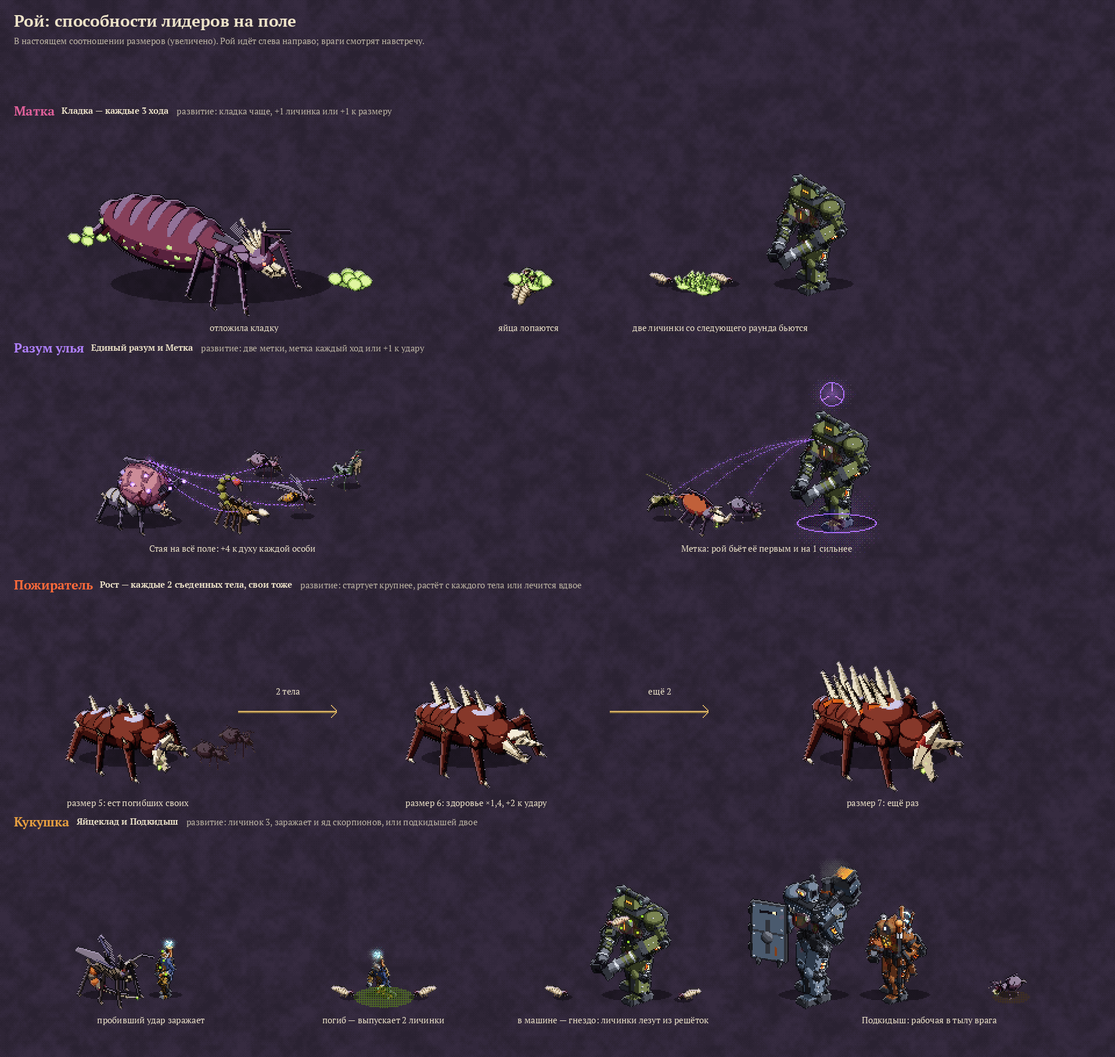
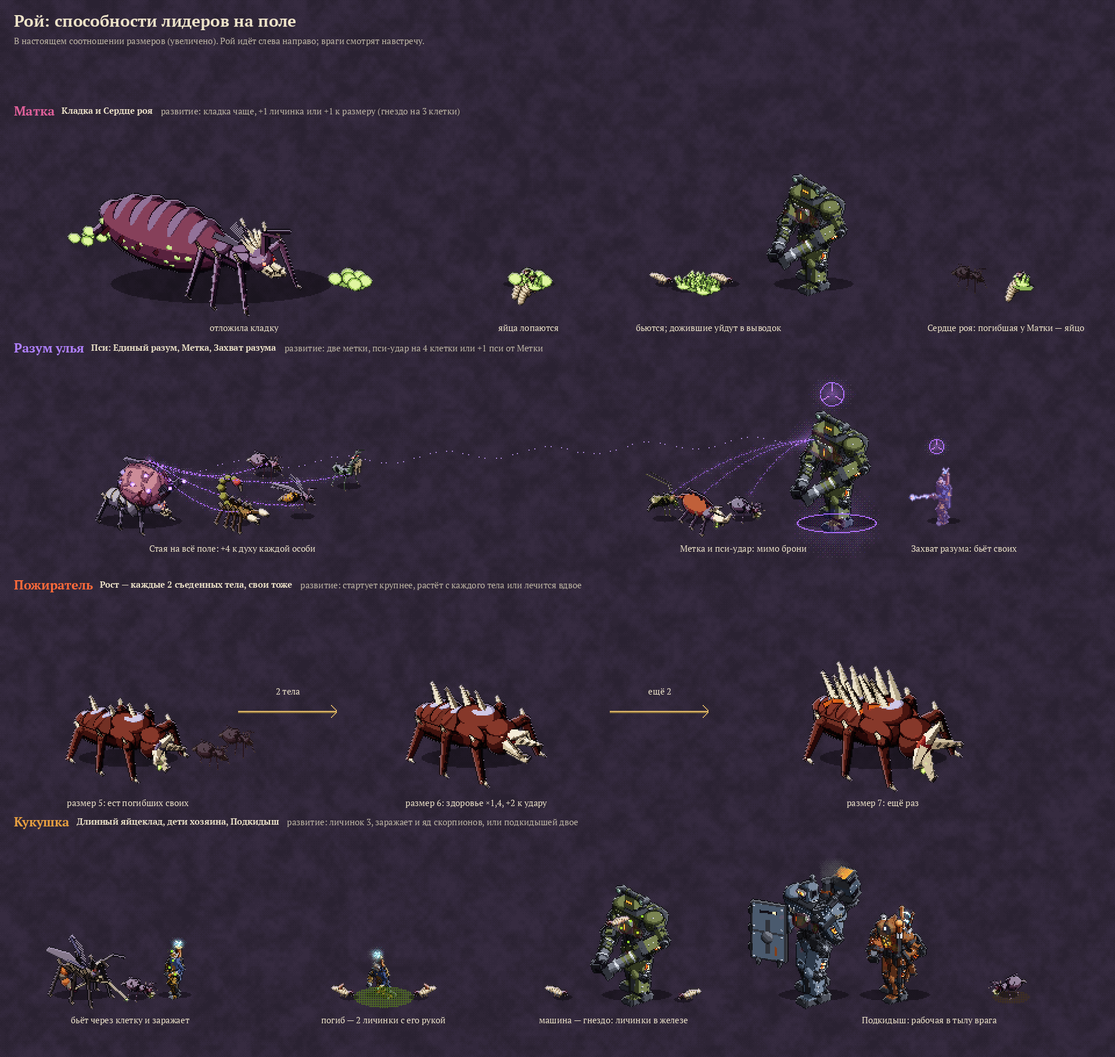
Лидеры роя: пси Разума улья, гнездо Матки, Кукушка, бой меняет породу
Новый тип урона пси — мимо брони, безмозглым вдвое меньше. Разум улья
бьёт мыслью на 3 клетки, Метка добавляет пси, Захват разума на 2 хода
переманивает раненого врага (голема — на 1). Матка: Сердце роя — погибшая
рядом своя роняет яйцо; выжившие личинки уходят в выводок с чертой, что
больше убивала. Кукушка: длинный яйцеклад бьёт через клетку, личинки
берут черту хозяина и уходят в выводок химерами. Общее правило: каждый
лидер превращает бой в материал для породы.

Claude-Session: https://claude.ai/code/session_01Bh6a99SKMjjKSinDnrtssC

diff --git a/tools/sprites/swarm_leaders.py b/tools/sprites/swarm_leaders.py
@@ -202,6 +202,10 @@ def razum(pose="idle", hue=0.0):
     legs(m, mc, hips=[(-5.0, 3.0, 1.8), (-1.6, 3.2, 2.0), (2.2, 3.6, 1.8)],
          knees=[(-7.4, 5.6, 4.8), (-1.6, 5.8, 5.4), (3.8, 5.6, 4.8)],
          feet=[(-9.2, 0.0, 6.4), (-1.4, 0.0, 7.0), (5.6, 0.0, 6.2)], thick=(0.5, 0.38))
+    if pose == "attack":                                        # the psionic blow: rings going out from the brain
+        for j, (x, r) in enumerate(((10.5, 2.6), (14.0, 3.6), (17.6, 4.6))):
+            for t in np.linspace(0, 2 * np.pi, 14 + 4 * j)[:-1]:
+                m.ell((x, 9.0 + np.sin(t) * r, np.cos(t) * r), (0.35, 0.35, 0.35), M_PHERO if j < 2 else M_PHERO_DIM)
     return m
 
 
@@ -294,7 +298,7 @@ def kukushka(pose="idle", hue=0.0):
     if not curl:
         ov = [bulb + (-0.6, -0.2, 0), bulb + (-6.0, -1.2, 0), bulb + (-11.0, -0.4, 0), bulb + (-14.6, 1.6, 0)]
     else:
-        ov = [bulb + (0.6, -0.3, 0), bulb + (5.0, -0.6, 0), bulb + (10.0, -0.2, 0), bulb + (14.4, 0.6, 0)]
+        ov = [bulb + (0.6, -0.3, 0), bulb + (7.0, 4.6, 0), bulb + (15.0, 6.2, 0), bulb + (22.0, 2.0, 0)]   # over the heads of its own
     m.limb(ov, 1, M_FANG, band=3)
     for z in (0.5, -0.5):
         m.limb([p + np.array((0, 0.4, z)) for p in ov[:3]], 1, mc, band=2 if z > 0 else 1)
@@ -332,9 +336,30 @@ def kukushka(pose="idle", hue=0.0):
 
 
 # ---------------------------------------------------------------- личинка
-def larva(pose="idle", hue=0.0):
-    """A pale grub curled a little, a dark head capsule with jaws, stubby legs."""
+STEEL_L = Mat(ramp("#1e2228", "#3a404a", "#606874", "#949ca8", "#d0d6de"))
+SKIN_L = Mat(ramp("#2a140c", "#5a3020", "#9a5a3c", "#d09070", "#f2c8a8"))
+
+
+def larva(pose="idle", hue=0.0, host=None):
+    """A pale grub curled a little, a dark head capsule with jaws, stubby legs. host: the trait it took from the body
+    it hatched from — "iron" (a golem: steel bands), "hand" (a man: a little hand), "bones" (the undead: bone spurs)."""
     m = Model()
+    if host == "iron":
+        for i in (1, 3, 5):
+            x = -1.4 - i * 1.7
+            y = 2.4 + 0.5 * np.sin(i * 0.5)
+            r = 2.1 - abs(i - 2) * 0.2
+            m.ell((x, y, 0), (0.55, r * 1.06, r * 1.02), STEEL_L)
+    elif host == "hand":
+        s0 = np.array((-5.0, 4.2, 1.2))
+        m.cyl(s0, s0 + (0.6, 2.6, 1.2), 0.55, SKIN_L, r1=0.45, seg=5)
+        h = s0 + (0.9, 3.0, 1.3)
+        m.ell(h, (0.7, 0.5, 0.6), SKIN_L)
+        for k in range(3):
+            m.cyl(h + (0.3, 0.2, -0.4 + 0.4 * k), h + (1.1, 0.7, -0.5 + 0.5 * k), 0.18, SKIN_L, seg=4)
+    elif host == "bones":
+        for x in (-3.0, -6.4, -9.8):
+            spike(m, (x, 3.6, 0), (x - 1.0, 6.0, 0), 0.4, M_BONE)
     for i in range(7):
         x = -1.4 - i * 1.7
         y = 2.4 + 0.5 * np.sin(i * 0.5) + (0.0 if pose == "idle" else 0.4 * i * 0.2)
@@ -373,10 +398,10 @@ def trim(spr, pad=2):
 DEV = {
     "Матка": [("often", "Кладка чаще", "откладывает каждые 2 хода — яйца светятся сквозь брюшко, кладка больше"),
               ("larva", "+1 личинка", "личинки вылупляются по три и цепляются за неё"),
-              ("size", "+1 к размеру", "размер 7 — предел роя больше; корона выше")],
+              ("size", "+1 к размеру", "размер 7 — гнездо на 3 клетки; корона выше")],
     "Разум улья": [("two", "Две метки", "вторая пара перистых усов: метит двоих"),
-                   ("every", "Метка каждый ход", "мозг весь светится узлами"),
-                   ("strike", "+1 к удару", "Единый разум бьёт сильнее: шипы по борозде, жвалы крупнее")],
+                   ("every", "Пси-удар на 4 клетки", "мозг весь светится узлами"),
+                   ("strike", "+1 пси от Метки", "шипы по борозде, жвалы крупнее")],
     "Пожиратель": [("bigger", "Стартует крупнее", "бой начинает размером 6"),
                    ("every_kill", "Растёт с каждого тела", "раздутое брюхо светится ихором"),
                    ("heal", "Лечится вдвое", "второй желудок-мешок на спине")],
@@ -470,13 +495,18 @@ def add_dev(m, name, dev, pose, hue=0.0):
             m.extend(ant.transformed(rot_z(0.5), (0.0, 0.0, 0)).scaled(0.85).transformed(I3, (4.6, 2.2, 1.0)))
 
 
-def build(name, pose="idle", k=1.0, stage=0, hue=0.0, dev=None):
+def build(name, pose="idle", k=1.0, stage=0, hue=0.0, dev=None, host=None):
     """k multiplies the in-game scale, as in swarm1.build. dev: the development taken (see DEV)."""
     if name == "Пожиратель" and dev == "bigger":
         stage = max(stage, 1)
     size = SIZE[name] + (stage if name == "Пожиратель" else 0) + (1 if (name == "Матка" and dev == "size") else 0)
     s = SCALE[size] * k
-    m = pozhiratel(pose, stage, hue) if name == "Пожиратель" else BUILD[name](pose, hue)
+    if name == "Пожиратель":
+        m = pozhiratel(pose, stage, hue)
+    elif name == "личинка":
+        m = larva(pose, hue, host)
+    else:
+        m = BUILD[name](pose, hue)
     add_dev(m, name, dev, pose, hue)
     w, h, ox, oy = int(110 * s), int(70 * s), int(70 * s), int(56 * s)
     spr = W.rim_light(render(m.scaled(s), w, h, ox, oy, **W.STYLE1))
@@ -486,22 +516,26 @@ def build(name, pose="idle", k=1.0, stage=0, hue=0.0, dev=None):
 
 LEADERS = [
     ("Матка", "размер 6 · число и порода", 1.4,
-     [("Кладка", "каждые 3 хода: рядом вылупляются 2 личинки, со следующего раунда бьются"),
-      ("Сердце роя", "постоянно: её размер задаёт предел роя"),
+     [("Кладка", "каждые 3 хода: 2 личинки; дожившие уйдут в выводок с чертой, что больше убивала"),
+      ("Сердце роя", "постоянно: погибшая рядом своя роняет яйцо — через 2 хода личинка"),
       ("Плодовитость", "поход: в выводке на потомка больше, кормление вдвое дешевле"),
       ("Медлительная", "слабость: скорость 1, держится в тылу", 1)]),
-    ("Разум улья", "размер 4 · рой бьёт как один", 1.9,
-     [("Метка", "каждые 2 хода: самый опасный враг — рой бьёт его первым и на 1 сильнее"),
-      ("Единый разум", "постоянно: Стая на всё поле — у каждой особи +4 к боевому духу"),
-      ("Общая память", "поход: эволюция формы дешевле на 1 биомассу"),
+    ("Разум улья", "размер 4 · рой, который думает: урон пси", 1.9,
+     [("Пси-удар", "атака: мыслью на 3 клетки, мимо брони"),
+      ("Метка", "каждые 2 хода: самый опасный враг — рой бьёт его первым, +1 пси"),
+      ("Единый разум", "постоянно: у каждой особи +4 к боевому духу, где бы ни стояла"),
+      ("Захват разума", "раз за бой: раненый враг 2 хода бьётся за рой, голем — 1"),
+      ("Общая память", "поход: эволюция дешевле; удары по Метке вдвое в отборе"),
       ("Хрупкий мозг", "слабость: мало здоровья, мягкое тело; гибель обезглавливает рой", 1)]),
     ("Пожиратель", "размер 5–7 · зверь растёт в бою", 1.3,
      [("Рост", "каждые 2 съеденных тела, свои тоже: здоровье ×1,4 и +2 к удару — до размера 7"),
       ("Каннибал", "постоянно: ест погибших своих рядом, как чужих"),
-      ("Всё в пасть", "поход: биомасса идёт в его рост между боями; рой меньше"),
+      ("Всё в пасть", "поход: съеденное в бою — биомасса, она идёт в его рост; рой меньше"),
       ("Ненасытный", "слабость: три раунда без еды — съедает живую свою особь рядом", 1)]),
     ("Кукушка", "размер 3 · рой растёт за счёт врага", 2.2,
-     [("Яйцеклад", "атака: заражает; живой, погибнув, выпускает 2 личинки, машина — гнездо"),
+     [("Длинный яйцеклад", "постоянно: бьёт через клетку, из-за спин своих"),
+      ("Яйцеклад", "атака: заражает; живой, погибнув, выпускает 2 личинки, машина — гнездо"),
+      ("Дети хозяина", "постоянно: личинки берут черту хозяина и уходят в выводок химерами"),
       ("Подкидыш", "в начале боя: одна рабочая оказывается в тылу врага"),
       ("Чужие черты", "поход: чужие черты чаще и безумнее, у особи их может быть две"),
       ("Хрупкая кладка", "слабость: огонь выжигает кладку — заражённый очищается", 1)]),

diff --git a/tools/sprites/swarm_abilities.py b/tools/sprites/swarm_abilities.py
@@ -59,6 +59,20 @@ def clutch(stage=0):
     return m
 
 
+def egg_hatching():
+    """One egg, cracked, a larva's head out."""
+    m = Model()
+    c = np.array((0.0, 1.9, 0.0))
+    m.ell(c - (0, 0.8, 0), (2.3, 1.0, 1.9), W.M_EGG)
+    for a in np.linspace(0, 2 * np.pi, 8)[:-1]:
+        p = c + np.array((np.cos(a) * 2.0, 0.1, np.sin(a) * 1.6))
+        W.spike(m, p, p + np.array((np.cos(a) * 0.5, 1.2, np.sin(a) * 0.3)), 0.45, W.M_EGG)
+    lv = SL.larva("attack").transformed(rot_z(1.1), (0, 0, 0)).scaled(0.8).transformed(I3, c + (0.6, -0.4, 0))
+    m.extend(lv)
+    m.ell((0.4, 0.1, 0.4), (3.6, 0.15, 2.6), SL.M_EGG_IN)
+    return m
+
+
 def thread(sc, a, b, col=PHERO, sag=10.0, k=0.9):
     """A pheromone thread: a sagging dotted line with a faint glow along it."""
     a, b = np.array(a, float), np.array(b, float)
@@ -133,7 +147,7 @@ def sheet():
     # ---- Матка: laying
     y0 = Y0
     by = y0 + RH - 44
-    heads.append((y0, "Матка", "Кладка — каждые 3 хода", "развитие: кладка чаще, +1 личинка или +1 к размеру", 0))
+    heads.append((y0, "Матка", "Кладка и Сердце роя", "развитие: кладка чаще, +1 личинка или +1 к размеру (гнездо на 3 клетки)", 0))
     put(sc, SL.build("Матка", "idle", k), 190, by, 95)
     eg = render_small(clutch(0), k * 1.9)
     sc.blit(eg, 300 - eg.ox, by - eg.oy)
@@ -146,12 +160,16 @@ def sheet():
         put(sc, SL.build("личинка", "attack", k), 600 + dx, by, 10)
     gol = flip(F.build("Орудие", "idle", k=1.6 * k))
     put(sc, gol, 700, by, 34)
-    caps.append((620, by + 10, "две личинки со следующего раунда бьются"))
+    caps.append((610, by + 10, "бьются; дожившие уйдут в выводок"))
+    import swarm_effects as E                          # the heart of the swarm: one of hers falls near her, an egg
+    put(sc, E.lit(W.build((), 0.0, "idle", False, k=k, genes=W.genes_for(44)), (30, 20, 20), 0.65), 836, by + 2, 0)
+    put(sc, render_small(egg_hatching(), k * 1.9), 880, by + 2, 10)
+    caps.append((866, by + 10, "Сердце роя: погибшая у Матки — яйцо"))
 
     # ---- Разум улья: one mind and the mark
     y0 += RH
     by = y0 + RH - 44
-    heads.append((y0, "Разум улья", "Единый разум и Метка", "развитие: две метки, метка каждый ход или +1 к удару", 1))
+    heads.append((y0, "Разум улья", "Пси: Единый разум, Метка, Захват разума", "развитие: две метки, пси-удар на 4 клетки или +1 пси от Метки", 1))
     rz = SL.build("Разум улья", "idle", k)
     put(sc, rz, 120, by, 36)
     bugs = [((), False, 230, by - 40), (("wings",), False, 260, by - 4), (("stinger",), True, 205, by + 2),
@@ -170,7 +188,17 @@ def sheet():
         put(sc, W.build(traits, -0.05, "attack", soldier=sold, k=k), x, by + (0 if sold else -2), 10)
     for x in (600, 640, 572):
         thread(sc, (x + 6, by - 24), (700, by - 70), sag=10, k=0.6)
-    caps.append((660, by + 10, "Метка: рой бьёт её первым и на 1 сильнее"))
+    for t in np.linspace(0, 1, 120):                    # the psionic blow: a wave from the brain to the mark, through armour
+        x = 140 + (700 - 140) * t
+        y = by - 44 + (by - 70 - (by - 44)) * t + np.sin(t * 40) * 4
+        if int(t * 120) % 3:
+            sc.rgb[int(y), int(x)] = sc.rgb[int(y), int(x)] * 0.2 + hexc("#c8a0ff") * 0.8
+    sc.glow(700, by - 70, 24, hexc("#b070ff"), 0.6)
+    caps.append((640, by + 10, "Метка и пси-удар: мимо брони"))
+    cap_ = flip(E.lit(GH.build(LH.INVENTOR, "attack", 0.9 * k), (176, 112, 255), 0.35))   # a captured mind turns on its own
+    put(sc, cap_, 812, by, 14)
+    sigil(sc, 806, by - 64, 6)
+    caps.append((830, by + 10, "Захват разума: бьёт своих"))
 
     # ---- Пожиратель: growing
     y0 += RH
@@ -193,26 +221,28 @@ def sheet():
     # ---- Кукушка: the egg-layer and the changeling
     y0 += RH
     by = y0 + RH - 44
-    heads.append((y0, "Кукушка", "Яйцеклад и Подкидыш", "развитие: личинок 3, заражает и яд скорпионов, или подкидышей двое", 3))
+    heads.append((y0, "Кукушка", "Длинный яйцеклад, дети хозяина, Подкидыш", "развитие: личинок 3, заражает и яд скорпионов, или подкидышей двое", 3))
     ku = SL.build("Кукушка", "attack", k)
-    put(sc, ku, 95, by, 24)
+    put(sc, ku, 70, by, 24)
+    put(sc, W.build((), 0.02, "attack", False, k=k, genes=W.genes_for(12)), 118, by + 2, 8)      # its own, in front of it
     inv = flip(GH.build(LH.INVENTOR, "idle", 0.9 * k))
-    put(sc, inv, 142, by, 14)
-    spots(sc, 140, by - 30, [(0, 0), (-3, 6), (2, 12), (-1, -8)])
-    caps.append((130, by + 10, "пробивший удар заражает"))
+    put(sc, inv, 150, by, 14)
+    spots(sc, 148, by - 30, [(0, 0), (-3, 6), (2, 12), (-1, -8)])
+    caps.append((112, by + 10, "бьёт через клетку и заражает"))
     dead = flip(GH.build(LH.INVENTOR, "broken", 0.9 * k))
     put(sc, dead, 330, by, 16)
     splat(sc, 330, by + 2, 26)
     for dx in (-30, 30):
-        put(sc, flip(SL.build("личинка", "attack", k)) if dx > 0 else SL.build("личинка", "attack", k), 330 + dx, by + 2, 8)
-    caps.append((330, by + 10, "погиб — выпускает 2 личинки"))
+        put(sc, flip(SL.build("личинка", "attack", k, host="hand")) if dx > 0 else SL.build("личинка", "attack", k, host="hand"),
+            330 + dx, by + 2, 8)
+    caps.append((330, by + 10, "погиб — 2 личинки с его рукой"))
     gx = 548                                           # a machine is a nest: eggs ripen in the warmth of its furnace
     put(sc, flip(F.build("Орудие", "idle", k=1.6 * k)), gx, by, 30)
     spots(sc, gx - 6, by - 64, [(0, 0), (-8, 6), (6, 10), (-2, 18), (10, -4)])
-    put(sc, flip(SL.build("личинка", "attack", k)), gx - 22, by - 58, 0)
-    put(sc, SL.build("личинка", "attack", k), gx - 64, by + 2, 8)
-    put(sc, flip(SL.build("личинка", "idle", k)), gx + 40, by + 4, 8)
-    caps.append((gx - 20, by + 10, "в машине — гнездо: личинки лезут из решёток"))
+    put(sc, flip(SL.build("личинка", "attack", k, host="iron")), gx - 22, by - 58, 0)
+    put(sc, SL.build("личинка", "attack", k, host="iron"), gx - 64, by + 2, 8)
+    put(sc, flip(SL.build("личинка", "idle", k, host="iron")), gx + 40, by + 4, 8)
+    caps.append((gx - 20, by + 10, "машина — гнездо: личинки в железе"))
     for g, x in (("Страж", 700), ("Мудрец", 770)):
         put(sc, flip(F.build(g, "idle", k=F.FRAMES[g][0] * k * 0.8)), x, by, 30)
     splat(sc, 870, by + 2, 16, col=hexc("#6a5038"), k=0.8)

diff --git a/docs/CONCEPT.md b/docs/CONCEPT.md
@@ -90,9 +90,12 @@
 - **Сокрушительный удар**: если один удар снёс больше половины полного здоровья цели, цель
   отлетает на клетку (если она не крупнее бьющего), а её соседи проверяют страх 1–7.
   Тяжёлые бойцы делают это часто, мелочь почти никогда.
+- **Пси** — удар по разуму: броня от него не спасает. Безмозглые (боевой дух 99 — големы, нежить)
+  получают от пси вдвое меньше: страха у них нет, но то, что ими движет, — искра в ядре голема,
+  чары нежити — пси сбивает. Пси бьёт только Разум улья и его рой.
 - **Огонь и горение не замечают броню.** Кислота разъедает броню до конца боя: каждое попадание
   снимает 1 брони.
-- **Типы урона**: колющий, рубящий, дробящий, огонь, холод, молния, яд, кислота. У каждого оружия
+- **Типы урона**: колющий, рубящий, дробящий, огонь, холод, молния, яд, кислота, пси. У каждого оружия
   и каждой способности, которая ранит, свой тип. Сопротивление режет урон вдвое, уязвимость
   удваивает. Стихийные сопротивления — в процентах (огнеупорность — 75%).
 - **Типы брони**: у каждого юнита и каждой постройки свой тип брони — из чего сделана защита.
@@ -755,7 +758,7 @@
 | Огонь | слабо | горящая мелочь бежит (общее правило) |
 
 Способности только биологические: укус, жало, яд, кислота, панцирь, прыжок, полёт, феромоны,
-размножение, пожирание. Никаких механизмов и магии.
+размножение, пожирание — и пси Разума улья, воля роя, а не магия. Никаких механизмов и заклинаний.
 
 #### Пассивки и слабость класса
 
@@ -983,7 +986,7 @@
 | Лидер | Где сила |
 |---|---|
 | Матка | в числе и породе |
-| Разум улья | в согласованности: рой бьёт как один |
+| Разум улья | в разуме: пси мимо брони, одна воля на весь рой |
 | Пожиратель | в одном звере, который растёт по ходу боя |
 | Кукушка | в чужих телах: рой растёт за счёт врага |
 
@@ -993,25 +996,34 @@
 
 | Способность | Когда | Что делает |
 |---|---|---|
-| Кладка | каждые 3 хода | рядом вылупляются 2 личинки (призыв), со следующего раунда бьются |
-| Сердце роя | постоянно | её размер задаёт предел роя |
+| Кладка | каждые 3 хода | рядом вылупляются 2 личинки (призыв), со следующего раунда бьются. Личинки, дожившие до конца боя, уходят в выводок новорождёнными — с чертой, которая в этом бою убила больше всех |
+| Сердце роя | постоянно | гнездо: своя особь, погибшая в 2 клетках от Матки, роняет яйцо, и через 2 хода из него вылупляется личинка. Пока Матка жива, гнездо вокруг неё не кончается — враг, прорвавшийся к ней, тонет в личинках |
 | Медлительная | слабость | скорость 1, держится в тылу |
 | Плодовитость | правило похода | в выводке на одного потомка больше, кормление вдвое дешевле |
 
-Развитие: кладка чаще, +1 личинка или +1 к размеру.
+Выжившие личинки не делают рой сильнее сразу: в выводке они идут под предел роя вместе с кладками,
+и лишних съедают в отбор. Матка даёт не силу, а выбор: чем лучше её защитили, тем больше материала
+для породы, и он сам тянется к тому, что лучше убивало.
 
-##### Разум улья — рой бьёт как один
+Развитие: кладка чаще, +1 личинка или +1 к размеру (размер 7 — гнездо на 3 клетки).
 
-Размер 4, здоровье 22, укус 1–4 колющий, броня 0, мягкое тело, скорость 1.
+##### Разум улья — рой, который думает
+
+Мозг роя бьёт не жвалами, а мыслью: его урон — **пси**, мимо брони. Он держит рой одной волей,
+выжигает разум врага и забирает его себе.
+
+Размер 4, здоровье 22, пси-удар 1–6 пси, дальность 3, броня 0, мягкое тело, скорость 1.
 
 | Способность | Когда | Что делает |
 |---|---|---|
-| Метка | каждые 2 хода | отмечает самого опасного врага: кто из роя дотянется, бьёт его первым и на 1 сильнее |
-| Единый разум | постоянно | Стая действует на всё поле: у каждой особи полный +4 к боевому духу |
+| Пси-удар | атака | бьёт мыслью на 3 клетки, мимо брони |
+| Метка | каждые 2 хода | вскрывает разум самого опасного врага (нанёсшего рою больше всего урона, в первом раунде — с самым сильным ударом): кто из роя дотянется, бьёт его первым, и каждый удар добавляет 1 пси |
+| Единый разум | постоянно | весь рой на связи: у каждой особи полный +4 к боевому духу, где бы она ни стояла |
+| Захват разума | раз за бой | враг ниже половины здоровья на 2 хода сражается за рой; безмозглого — голема, нежить — захватывает на 1 ход |
 | Хрупкий мозг | слабость | мало здоровья и мягкое тело; гибель обезглавливает рой |
-| Общая память | правило похода | эволюция формы дешевле на 1 биомассу |
+| Общая память | правило похода | эволюция формы дешевле на 1 биомассу; черты особей, бивших Метку, считаются в естественном отборе вдвое |
 
-Развитие: две метки, метка каждый ход или +1 к удару от Единого разума.
+Развитие: две метки, пси-удар на 4 клетки или +1 пси от Метки.
 
 ##### Пожиратель — зверь, который растёт в бою
 
@@ -1022,7 +1034,7 @@
 | Рост | каждые 2 съеденных тела — своих или чужих | здоровье ×1,4 и +2 к удару, до двух раз за бой; на поле он вырастает до размера 7 |
 | Каннибал | постоянно | ест погибших своих рядом так же, как чужих: лечится и растёт |
 | Ненасытный | слабость | три раунда без еды — хватает живую свою особь рядом, самую мелкую, и съедает; если рядом никого — теряет десятую часть здоровья каждый раунд |
-| Всё в пасть | правило похода | биомасса может идти в рост Пожирателя между боями; рой меньше |
+| Всё в пасть | правило похода | каждое тело, съеденное им в бою, — +1 биомасса после боя; биомасса может идти в его рост между боями; рой меньше |
 
 Рядом с ним ставят дешёвую стаю — это его запас еды: погибшие свои кормят его, а если еды нет,
 он сам берёт живую.
@@ -1035,8 +1047,10 @@
 
 | Способность | Когда | Что делает |
 |---|---|---|
+| Длинный яйцеклад | постоянно | яйцеклад длиннее тела: бьёт через клетку, из-за спин своих |
 | Яйцеклад | атака | пробивший удар заражает. В живом яйца ждут его гибели — он выпускает 2 личинки. В машине яйца зреют в тепле топки прямо в бою (**гнездо**): каждые 3 хода из её решёток вылезает личинка, а сломанная выпускает ещё 2; так же в нежити |
 | Подкидыш | в начале боя | одна рабочая оказывается в тылу врага |
+| Дети хозяина | постоянно | личинка из заражённого берёт черту хозяина: из человека — руку, из голема — железный панцирь, из нежити — чужие кости; дожившие до конца боя уходят в выводок химерами |
 | Хрупкая кладка | слабость | огонь выжигает кладку: заражённый, получив огонь — даже свой, — очищается |
 | Чужие черты | правило похода | чужие черты выпадают чаще и безумнее: у особи их может быть две |
 
@@ -1067,6 +1081,9 @@
 - **Биомасса** — единая валюта роя: от пожирания, отбора в выводке и наград; ещё одна кладка
   в выводке, эволюция формы и **кормление лидера** — лидер навсегда откладывает на одного потомка больше в каждом
   выводке, каждое следующее кормление дороже.
+- **Бой меняет породу.** Каждый лидер по-своему превращает бой в материал для породы: у Матки
+  выжившие личинки уходят в выводок, у Кукушки — дети хозяев химерами, у Пожирателя съеденное
+  становится биомассой, у Разума улья удары по Метке весят вдвое в естественном отборе.
 - **Эволюция формы.** Улучшение сразу для всех особей одной формы («Осы: жало пробивает
   броню»). Одно решение действует на десятки особей — никакого поштучного микроменеджмента.
   Три эволюции на форму — в разделе «Эволюция форм».

diff --git a/docs/ART.md b/docs/ART.md
@@ -303,12 +303,14 @@
 ### Способности лидеров роя на поле
 
 Способности видны прямо на поле. Матка откладывает кладку — светлые яйца в слизи; через ход они
-лопаются, и из скорлупы вылезают личинки, которые со следующего раунда бьются. Единый разум —
-феромонные нити от Разума улья к особям по всему полю; Метка — фиолетовое кольцо под целью
-и знак над ней, к которому тянутся нити атакующих. Пожиратель растёт на глазах: 5 → 6 → 7, и ест он и погибших своих.
-Кукушка жалит яйцекладом: на заражённом проступают зелёные пятна, погибнув, он падает в лужу
-слизи и выпускает двух личинок; машина становится гнездом — в тепле топки яйца зреют, и личинки
-лезут из её решёток прямо в бою. Подкидыш — рабочая, вылезшая из-под земли в тылу врага.
+лопаются, и из скорлупы вылезают личинки; своя особь, погибшая рядом с Маткой, роняет яйцо
+(Сердце роя). Разум улья бьёт мыслью: фиолетовые кольца пси-удара идут от мозга волной к цели,
+мимо брони; феромонные нити Единого разума тянутся к особям по всему полю; над целью Метки —
+знак и кольцо, а захваченный разумом враг, подсвеченный фиолетовым, бьёт своих. Пожиратель
+растёт на глазах: 5 → 6 → 7, и ест он и погибших своих. Кукушка бьёт длинным яйцекладом через
+клетку, из-за своих: на заражённом проступают зелёные пятна, погибнув, он выпускает двух
+личинок с его рукой; машина становится гнездом, и личинки в стальных кольцах лезут из её
+решёток. Подкидыш — рабочая, вылезшая из-под земли в тылу врага.
 
 ![Способности лидеров роя](images/swarm_abilities.png)
 
